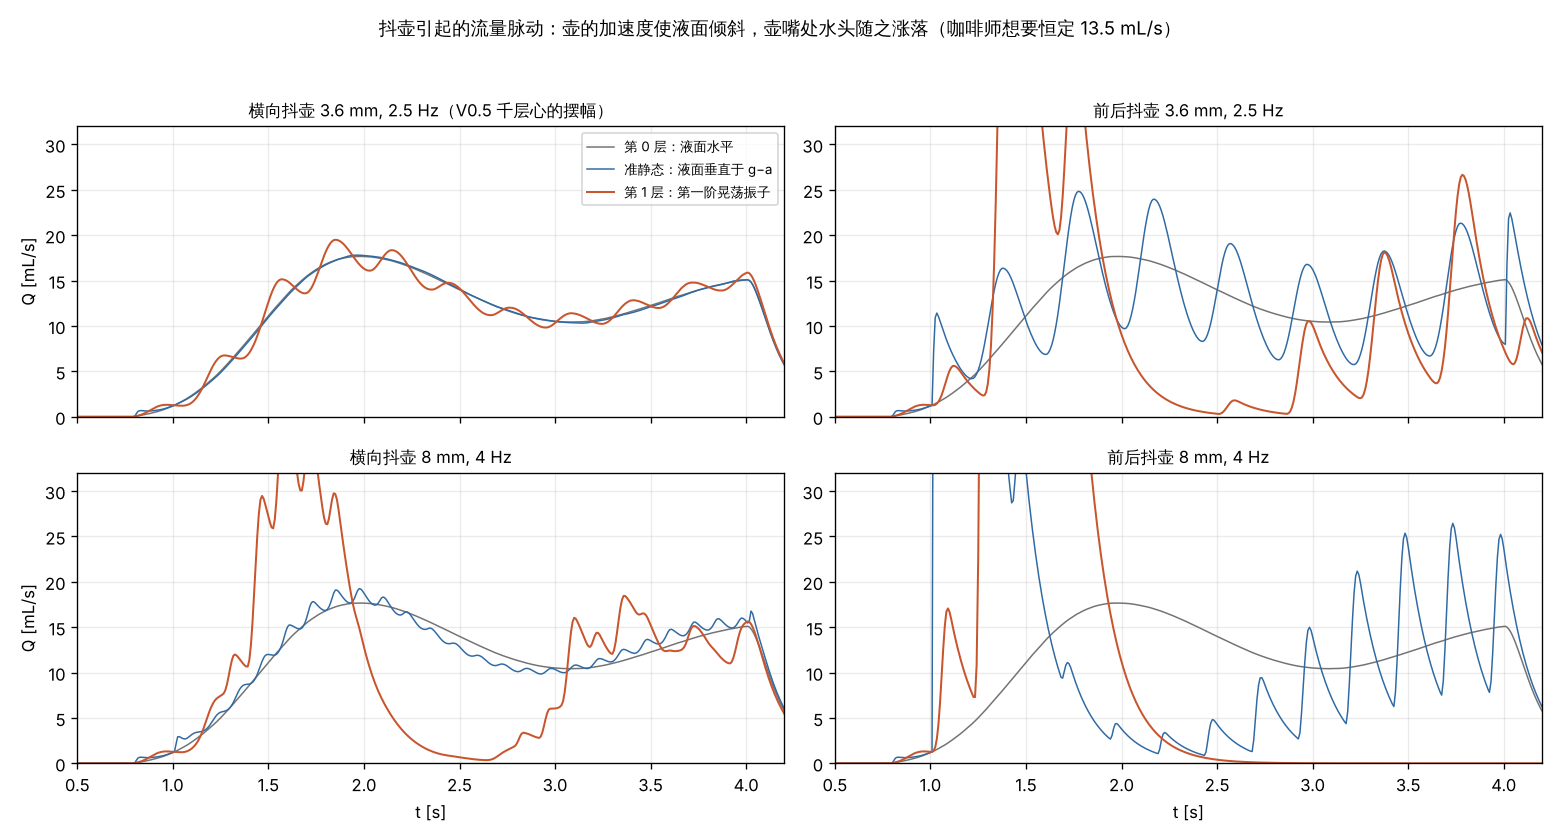
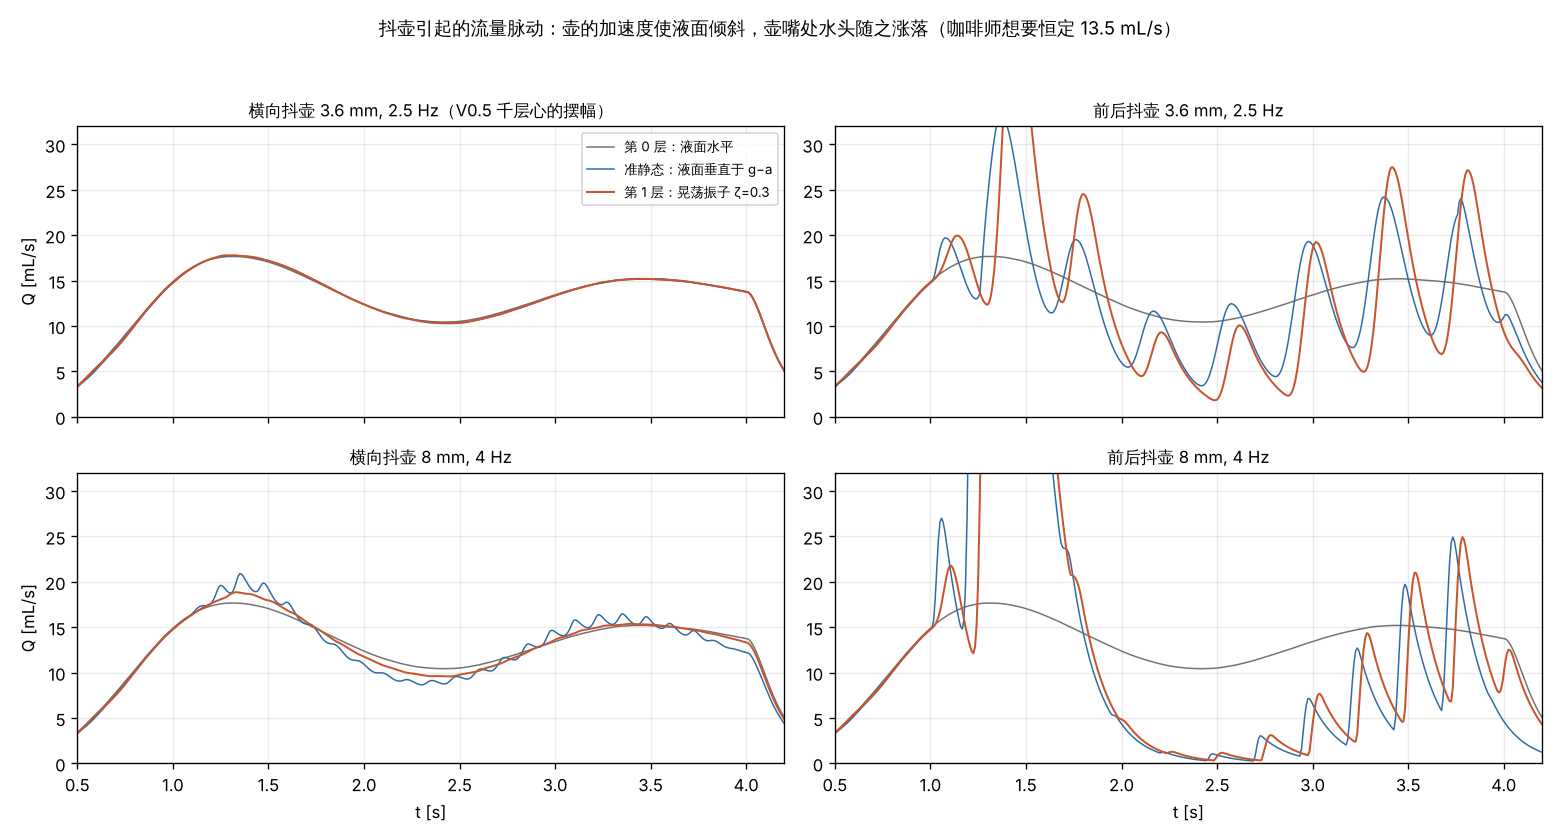
Sloshing damping 0.3 with a slope cap (resonant lateral wiggle threw the stream across the cup); overlay kept square; scripts start the NX pitcher at 250 mL
Claude-Session: https://claude.ai/code/session_019DebF9UcsYAMq4SUBADtor

diff --git a/web/pitcher_playground.html b/web/pitcher_playground.html
@@ -50,7 +50,7 @@ button.pour.active{background:var(--coffee);color:var(--milk);border-color:var(-
 .ref p{margin:0;font-size:12px;color:var(--muted)}
 kbd{font-family:var(--mono);font-size:11px;border:1px solid var(--line);border-bottom-width:2px;border-radius:3px;padding:0 4px}
 .overlay{position:absolute;inset:0;background:color-mix(in srgb,var(--panel) 92%,transparent);display:flex;flex-direction:column;align-items:center;justify-content:center;gap:8px;padding:12px;z-index:5}
-.overlay canvas{max-width:100%;max-height:calc(100% - 60px);aspect-ratio:1;border-radius:50%;box-shadow:0 2px 12px rgba(0,0,0,.25)}
+.overlay canvas{width:60vmin;height:60vmin;border-radius:50%;box-shadow:0 2px 12px rgba(0,0,0,.25)}
 .overlay .bar{display:flex;gap:10px;align-items:center;flex-wrap:wrap;justify-content:center;font-size:12px;color:var(--muted)}
 .stage .hud b{color:var(--fg);font-weight:500}
 select{font:inherit;border:1px solid var(--line);background:var(--panel);color:var(--fg);border-radius:4px;padding:3px 6px}
@@ -220,7 +220,7 @@ function clearance(R, tip, cupR){
     if(Math.hypot(w[0],w[1])<cupR && w[2]<zmin) zmin=w[2]; } }
   return zmin;
 }
-const law={Cd:0.60, hk:0.0008, h_on:0.0025, h_off:0.0005, tau:0.08, tau_stop:0.15, slosh:true, zeta:0.08, accTau:0.02};
+const law={Cd:0.60, hk:0.0008, h_on:0.0025, h_off:0.0005, tau:0.08, tau_stop:0.15, slosh:true, zeta:0.30, slopeMax:0.36, accTau:0.02};
 const st={V:200e-6, Q:0, flowing:false, t:0};
 // level 1: pitcher acceleration -> effective gravity g - a -> free-surface slope through the first sloshing mode
 const kin={tipPrev:null, vel:[0,0,0], acc:[0,0,0], slope:[0,0], slopeRate:[0,0], omega:0};
@@ -234,7 +234,8 @@ function kinematics(tip, dt){
   kin.tipPrev=[tip[0],tip[1],tip[2]]; kin.vel=vNew;
   const gz=Math.max(G+kin.acc[2],0.2*G); const sqs=[-kin.acc[0]/gz, -kin.acc[1]/gz];
   if(law.slosh){ const Rb=geom.rbelly, depth=Math.max(st.V/(PI*Rb*Rb),0.005), k=1.841/Rb, om=Math.sqrt(G*k*Math.tanh(k*depth)); kin.omega=om;
-    for(let i=0;i<2;i++){ kin.slopeRate[i]+=dt*(om*om*(sqs[i]-kin.slope[i])-2*law.zeta*om*kin.slopeRate[i]); kin.slope[i]+=dt*kin.slopeRate[i]; } }
+    for(let i=0;i<2;i++){ kin.slopeRate[i]+=dt*(om*om*(sqs[i]-kin.slope[i])-2*law.zeta*om*kin.slopeRate[i]); kin.slope[i]+=dt*kin.slopeRate[i]; }
+    const sn=Math.hypot(kin.slope[0],kin.slope[1]); if(sn>law.slopeMax){ kin.slope[0]*=law.slopeMax/sn; kin.slope[1]*=law.slopeMax/sn; kin.slopeRate=[0,0]; } }
   else { kin.slope=[sqs[0],sqs[1]]; kin.slopeRate=[0,0]; }
   const nn=Math.hypot(kin.slope[0],kin.slope[1],1); NRM=[-kin.slope[0]/nn,-kin.slope[1]/nn,1/nn];
   GEFF=Math.hypot(kin.acc[0],kin.acc[1],G+kin.acc[2]);
@@ -401,7 +402,7 @@ function drawTop(){ const N=solN, W=top2d.width; tctx.imageSmoothingEnabled=true
   const last=hits[hits.length-1]; if(last&&last.on){ tctx.fillStyle='rgba(47,106,165,0.9)'; tctx.beginPath(); tctx.arc(X(last.x),Y(last.y),5,0,2*PI); tctx.fill(); }
   const area=whiteArea(); document.getElementById('top2dinfo').textContent=`杯面 2D 浓度场 c = m/ℓ，${N}×${N} 网格，模型时间 ${solver.t.toFixed(2)} s，白区面积 ${area.toFixed(3)} 杯径²（杯面积 0.754），蓝线为落点轨迹`; }
 function whiteArea(){ let a=0; for(let k=0;k<cField.length;k++) if(cField[k]>0.4) a++; return a*solver.area; }
-function toggleTop(force){ const show=force===undefined?overlay.hidden:force; overlay.hidden=!show; if(show) drawTop(); }
+function toggleTop(force){ const show=force===undefined?overlay.hidden:force; overlay.hidden=!show; if(show){ const sz=Math.max(120,Math.min(stage.clientWidth-24, stage.clientHeight-70)); top2d.style.width=sz+'px'; top2d.style.height=sz+'px'; drawTop(); } }
 canvas.addEventListener('dblclick',ev=>{ ev.preventDefault(); toggleTop(); });
 overlay.addEventListener('dblclick',()=>toggleTop(false));
 document.getElementById('closeTop').addEventListener('click',()=>toggleTop(false));
@@ -426,7 +427,7 @@ function intent(t){ let acc=0; for(const m of MOVES){ if(t<acc+m.dur){ const f=(
   const wob=m.wf?amp*Math.sin(2*PI*m.wf*(t-acc)):0;
   return {x:m.p0[0]+(m.p1[0]-m.p0[0])*e+wob, y:m.p0[1]+(m.p1[1]-m.p0[1])*e, z:m.z0+(m.z1-m.z0)*e, Q:m.Q0+(m.Q1-m.Q0)*f, name:m.name}; } acc+=m.dur; }
   const last=MOVES[MOVES.length-1]; return {x:last.p1[0],y:last.p1[1],z:last.z1,Q:0,name:'结束'}; }
-function startScript(moves){ MOVES=moves; st.V=200e-6; st.Q=0; st.flowing=false; solver.reset(); hits.length=0; pose.yaw=rad(-90); ui.yaw.value=-90; pose.tilt=rad(40); manualTilt=null; pouring=false;
+function startScript(moves){ MOVES=moves; st.V=(geom&&geom.name!=='参数化壶')?250e-6:200e-6; ui.fill.value=Math.round(st.V*1e6); out('fillv').textContent=ui.fill.value+' mL'; st.Q=0; st.flowing=false; solver.reset(); hits.length=0; pose.yaw=rad(-90); ui.yaw.value=-90; pose.tilt=rad(40); manualTilt=null; pouring=false;
   resetKin(); auto={t:0, ierr:0, off:[0,0], Qseen:0}; }
 function resetKin(){ kin.tipPrev=null; kin.vel=[0,0,0]; kin.acc=[0,0,0]; kin.slope=[0,0]; kin.slopeRate=[0,0]; NRM=[0,0,1]; GEFF=G; }
 document.getElementById('auto').addEventListener('click',()=>startScript(MOVES_HEART));

diff --git a/latte_imex/pitcher.py b/latte_imex/pitcher.py
@@ -179,7 +179,8 @@ class OutflowLaw:
     # level 1: the free surface follows the effective gravity g - a (pitcher acceleration) through the first
     # sloshing mode, a damped oscillator forced by the quasi-static slope; slosh=False keeps the surface horizontal
     slosh: bool = True
-    zeta: float = 0.08      # sloshing damping ratio (milk + foam, guess; to be calibrated)
+    zeta: float = 0.30      # sloshing damping ratio (foamed milk is strongly damped; guess, to be calibrated)
+    slope_max: float = 0.36 # cap on the free-surface slope (tan 20 deg): beyond this the single-mode model is meaningless
     acc_tau: float = 0.02   # low-pass on the finite-difference acceleration [s]
     carry_velocity: bool = True   # the jet leaves with the pitcher's velocity added
 
@@ -404,6 +405,9 @@ class Pitcher:
             # semi-implicit Euler for s'' + 2 zeta w s' + w^2 s = w^2 s_qs
             sr = sr + dt * (omega * omega * (s_qs - sl) - 2 * law.zeta * omega * sr)
             sl = sl + dt * sr
+            sn = float(np.linalg.norm(sl))
+            if sn > law.slope_max:
+                sl = sl * (law.slope_max / sn); sr = sr * 0.0
             st.slope, st.slope_rate = tuple(sl), tuple(sr)
         else:
             st.slope = tuple(s_qs)

diff --git a/latte_imex/PITCHER_MODEL.md b/latte_imex/PITCHER_MODEL.md
@@ -101,8 +101,8 @@ IMEX 求解器在 N = 256 下用这些输入跑出的心形，共倒出 61 mL）
 
 ## 8. 第 0 层没管的事（第 1、2 层）
 
-- 壶与杯的碰撞：60° 倾角、壶嘴离液面 1.5 cm 时，壶壁在杯口上方最低点比咖啡面低 2–4 mm（`Pitcher.clearance`）。
-  咖啡师的做法是把杯子向壶倾斜 25° 左右、从近侧杯沿上方倒；第 0 层只报告这个间隙，不做碰撞。
+- 壶与杯的碰撞：已做（`Cup`、`Pitcher.required_lift`）：杯子向壶身一侧倾斜（默认 20°），每帧求壶壁不碰杯沿、杯壁、咖啡面、桌面的
+  最小抬高量并抬高；低位铺盘时参数化壶要抬 0.8 cm，NX 壶不用抬。
 - 晃荡：画叶子时 5–8 Hz 的横向抖壶接近壶内第一阶晃荡模态（7 cm 口径约 3.6 Hz），会调制流量；可加一个阻尼振子
   描述液面倾斜。
 - 奶泡分层：壶内上层是微泡沫，出壶的泡沫比例随时间变；先按常数。
@@ -116,15 +116,16 @@ IMEX 求解器在 N = 256 下用这些输入跑出的心形，共倒出 61 mL）
 - 运动学：壶嘴位置按帧差分得速度 v 和加速度 a，加速度经 τ = 0.02 s 低通（`acc_tau`）。
 - 准静态斜率：s_qs = −a_h/(g + a_z)，a_h 为水平加速度。
 - 第一阶晃荡模态当受迫阻尼振子：s'' + 2ζω s' + ω² s = ω² s_qs，ω² = g·k·tanh(kH)，k = 1.841/R，
-  R 取壶腹半径，H 取当前液深 V/(πR²)；默认 ζ = 0.08（待标定）。200 mL 的参数化壶 ω/2π ≈ 3.1 Hz。
-  抖壶频率（2.5–6 Hz）就在共振附近，所以不能只用准静态。
+  R 取壶腹半径，H 取当前液深 V/(πR²)；默认 ζ = 0.3（奶泡阻尼大，待标定；ζ = 0.08 时 2.5 Hz 的抖壶在 NX 壶里正好共振，
+  液面倾到 45°，奶柱在壶沿两侧来回跳，落点横跨大半个杯子，显然不对），斜率上限 tan 20°。200 mL 的参数化壶 ω/2π ≈ 3.1 Hz，
+  抖壶频率（2.5–6 Hz）就在共振附近，所以不能只用准静态，也不能把阻尼取得太小。
 - 液面法向 n = (−s_x, −s_y, 1)/‖·‖；液面高度、壶沿水头、湿周弧元都改为沿 n 度量；堰流和出口速度里的 g 换成 |g − a|。
 - 带出速度：奶柱离开壶嘴时带着壶的速度，v₀ = u₀·e_spout + v_pitcher，之后仍只受重力。横向抖壶 3.6 mm、2.5 Hz 的
   壶速幅值 0.06 m/s，与出口速度 0.37 m/s 相比不小，落点摆幅因此从 0.045 增大到 0.059 杯径并带相位差。
 - 虚拟咖啡师相应改成"看平均流量"（Q 经 0.25 s 低通再进 PI）和"瞄平均落点"（偏移经 0.3 s 低通），抖动起止各有 0.25 s 的包络。
 
-结果（`results/pitcher_level1/wiggle_pulsation.png`）：横向抖壶使壶嘴处水头在 V 口两侧反向涨落，净流量脉动只有 10%
-（3.6 mm，2.5 Hz）到 40%（8 mm，4 Hz）；前后抖壶 3.6 mm、2.5 Hz 就能让流量在 5 到 25 mL/s 之间脉动，更大幅度时每个周期
+结果（`results/pitcher_level1/wiggle_pulsation.png`，ζ = 0.3）：横向抖壶使壶嘴处水头在 V 口两侧反向涨落，净流量几乎不变
+（3.6 mm，2.5 Hz 看不出脉动；8 mm，4 Hz 约 10%）；前后抖壶 3.6 mm、2.5 Hz 就能让流量在 3 到 27 mL/s 之间脉动，更大幅度时每个周期
 断流。V0.5 千层心靠猜的 flow_modulation = 0.85 在物理上对应"抖动里有前后分量"。
 但把这条物理链接到 2D 模型后，千层心（横向、前后、大幅三种抖法，N = 128）都只得到一个圆盘或带缺口的盘，没有同心弧纹
 （`results/pitcher_level1/*_final.png`）。原因是 V0.5 的叠层来自 ±1.4 杯径/s 的射流横向速度，而物理壶速只有它的 1/7；
